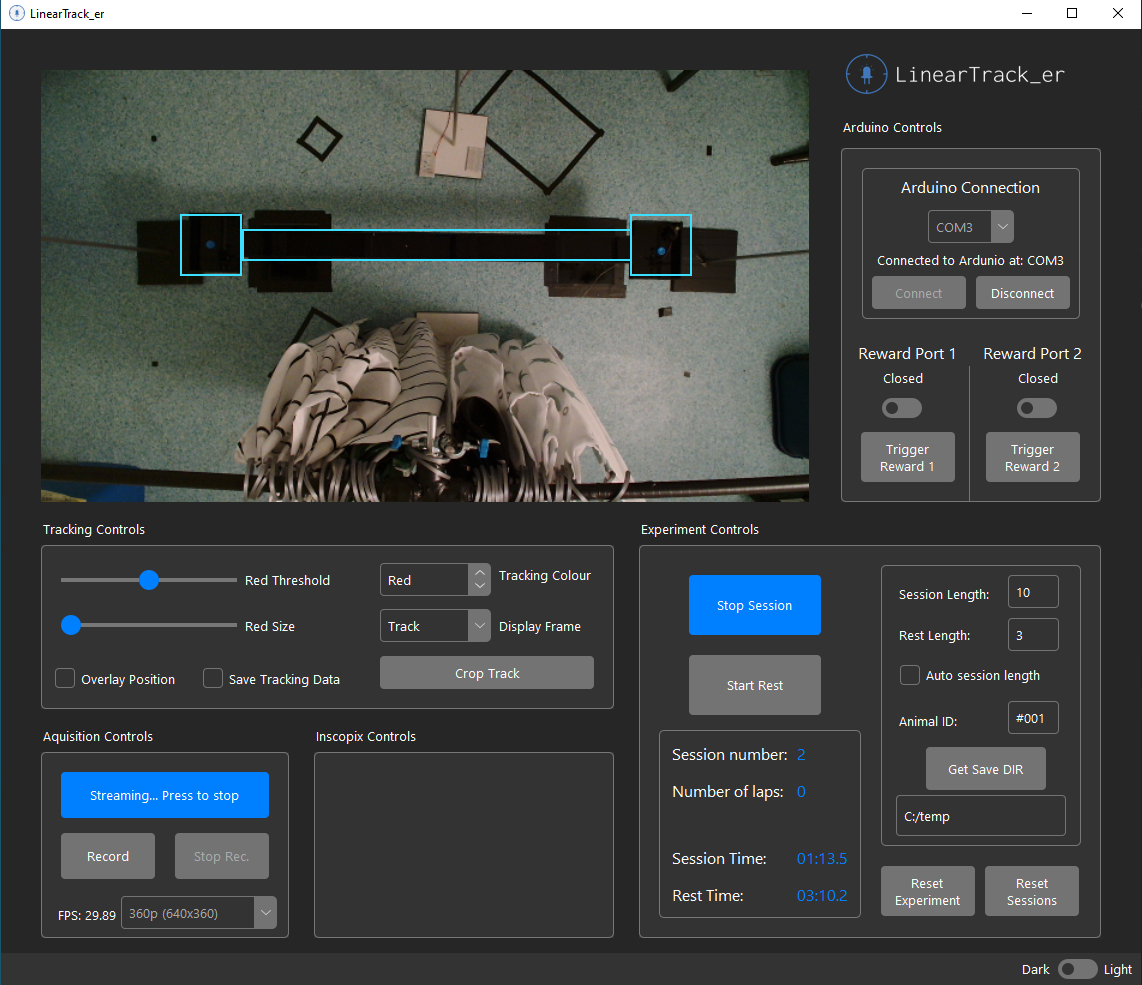
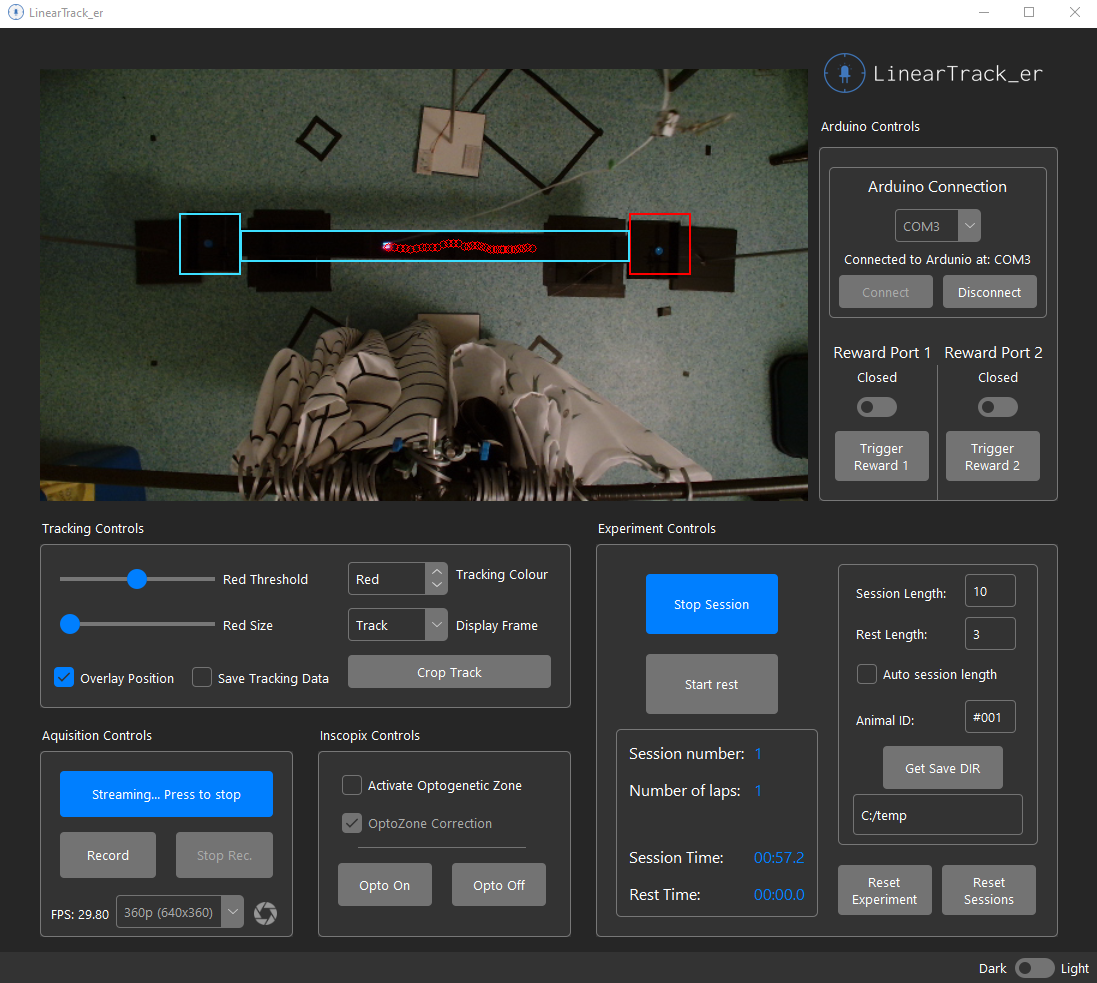
updated the app to add new features - added a camera settings button - added buttons for optogenetic activation - changed the themes to allow a new settings button - updated some logic for the resetting of active rewardzones

diff --git a/utils/tk_gui_class.py b/utils/tk_gui_class.py
@@ -160,12 +160,7 @@ class tk_gui():
         self.dark_label.pack(side='right',padx=2, pady=2)
         self.root.iconbitmap("tktheme/theme/logos/tracker_icon.ico")
 
-        #custom button that is a shutter for cam settings
-        self.cam_settings_button = ttk.Button(
-            self.theme_frame,
-            style='Logo.TButton'
-            )
-        self.cam_settings_button.pack(side='left',padx=(5,5), pady=2)   
+
 
         
         
@@ -497,28 +492,33 @@ class aquisition_pannel():
             sticky='nsew'
             )
 
+         
+
         # Frame to hold video resolution and FPS
         self.vid_res_frame = ttk.Frame(self.aquisition_frame)
         self.vid_res_frame.grid(
             row=2, 
             column=0, 
             columnspan=2,
-            pady=(0,2)
+            pady=(0,2),
+            padx=(2,2)
             )
+        #self.vid_res_frame.columnconfigure((0,1), weight=1) 
         
         # Video resolution selector spinbox
         self.video_res = tk.StringVar()
         self.vid_res_cb = ttk.Combobox(
             self.vid_res_frame,
             textvariable=self.video_res,
-            height=5
+            height=4,
+            width=20
             )
         self.vid_res_cb.grid(
             row=0, 
             column=1, 
-            sticky='s', 
-            pady=(0,5), 
-            padx=0
+            sticky='nsew', 
+            pady=(0,5),
+            padx=(2,5)
             )
         self.vid_res_cb['values'] = self.avaliable_resolutions
         self.vid_res_cb['state'] = 'readonly'
@@ -537,9 +537,20 @@ class aquisition_pannel():
             column=0, 
             sticky='w', 
             pady=2, 
-            padx=2
+            padx=2,
             )
-
+                #custom button that is a shutter for cam settings
+        self.cam_settings_button = ttk.Button(
+            self.vid_res_frame,
+            style='Logo.TButton'
+            )
+        self.cam_settings_button.grid(
+            row=0, 
+            column=2,  
+            pady=2,
+            sticky='nsew',
+            padx=(5,10)
+            )
 
 
 class inscopix_pannel():
@@ -575,6 +586,81 @@ class inscopix_pannel():
             sticky = 'nsew', 
             pady=(0,5), 
             padx=(15,10)
+            )
+        
+        # Activate Opto Zone tracking position checkbox
+        self.activate_opto = tk.IntVar(value=0)
+        self.activate_opto_check = ttk.Checkbutton(
+            self.inscopix_frame, 
+            variable=self.activate_opto, 
+            text = 'Activate Optogenetic Zone'
+            )
+        self.activate_opto_check.grid(
+            row=0, 
+            column=0,
+            columnspan=2, 
+            sticky='nsew',
+            pady=(20,5),
+            padx=(20,10),
+            )
+        
+        # Opto Zone correction mode
+        self.opto_correct = tk.IntVar(value=1)
+        self.opto_correct_check = ttk.Checkbutton(
+            self.inscopix_frame, 
+            variable=self.opto_correct, 
+            text = 'OptoZone Correction',
+            state='disabled'
+            )
+        self.opto_correct_check.grid(
+            row=1, 
+            column=0,  
+            columnspan=2,
+            sticky='nsew', 
+            padx=(20,20),
+            pady=(5,10)
+            )
+        
+        self.optoseperator = ttk.Separator(self.inscopix_frame)
+        self.optoseperator.grid(
+            row=2, 
+            column=0,
+            columnspan=2,  
+            padx=(40), 
+            pady=(0),
+            sticky='nsew'
+            )
+
+        # Opto on Button 
+        self.opto_on = tk.IntVar(value=0)
+        self.opto_on_button = ttk.Checkbutton(
+            self.inscopix_frame, 
+            text="Opto On", 
+            style="Toggle.TButton", 
+            variable=self.opto_on
+            )
+        self.opto_on_button.grid(
+            row=3, 
+            column=0, 
+            padx=(20, 10), 
+            pady=(15, 10), 
+            ipady= 5,  
+            sticky='nsew'
+            )
+        
+        # Opto on Button
+        self.opto_off_button = ttk.Button(
+            self.inscopix_frame, 
+            text="Opto Off", 
+            style="Toggle.TButton"
+            )
+        self.opto_off_button.grid(
+            row=3, 
+            column=1, 
+            padx=(10, 20), 
+            pady=(15, 10),
+            ipady= 5,  
+            sticky='nsew'
             )
         
 

diff --git a/Tracker_app.py b/Tracker_app.py
@@ -185,11 +185,13 @@ class video_stream():
             occupied_zone = self.track_zones[zone_occupied]
             other_zones = [zone for i, zone in enumerate(self.track_zones) if i!=zone_occupied]
 
+            if zone_occupied != self.last_zone_occupied:
+               print(f"{occupied_zone.name} Entered")
+               self.last_zone_occupied = zone_occupied
                            
             if app.session_running:
                 if isinstance(occupied_zone,RewardZone) and occupied_zone.isactive:
                     app.trigger_reward(occupied_zone.rewardport)
-                    print("occupied rewardzone")
                     # activate the other reward zones
                     for zone in other_zones:
                         if isinstance(zone,RewardZone):
@@ -197,9 +199,7 @@ class video_stream():
                     # deactivate this zone        
                     occupied_zone.deactivate()
 
-            if zone_occupied != self.last_zone_occupied:
-               print(f"Zone {occupied_zone.name} Entered")
-               self.last_zone_occupied = zone_occupied
+
             
 
     def save_data(self):
@@ -276,7 +276,7 @@ class tracker_app():
         self.gui.arduino.solinoid_2_switch.configure(command=lambda: self.open_close_port(port=2))
 
         self.gui.theme_switch.configure(command= self.change_theme)
-        self.gui.cam_settings_button.configure(command= self.camera_settings)
+        self.gui.aquisition.cam_settings_button.configure(command= self.camera_settings)
 
 
     def Led_to_track(self):
@@ -365,7 +365,7 @@ class tracker_app():
             self.arduino_serial.write(str(port).encode())
             print("Reward " + str(port) + " delivered")
         except:
-            print(f"Reward{port} triggered but No Connected Arduino")
+            print(f"Reward {port} triggered but no connected Arduino")
 
         if self.session_running:
             self.correct_trials += 1
@@ -454,6 +454,8 @@ class tracker_app():
         """        
         vid_res_index = self.gui.aquisition.vid_res_cb.current()
         camera_resolution = self.gui.avaliable_resolutions[vid_res_index]
+        res_len = len(self.gui.avaliable_resolutions_string[vid_res_index])
+        self.gui.aquisition.vid_res_cb.configure(width = res_len+2)
         
         self.cam.video_resolution = camera_resolution
         self.frame_resize_factor = [
@@ -472,6 +474,9 @@ class tracker_app():
             self.gui.experiment.session_but_state.set(0)
             self.session_running = False
             self.session_number += 1
+            for zone in self.gui.video.zones:
+                if isinstance(zone,RewardZone):
+                    zone.activate() 
             
         else:
             self.session_start = datetime.now()
@@ -624,7 +629,7 @@ class tracker_app():
 
         
     def refresher(self):
-        self.gui.aquisition.fps_string_var.set(f'FPS: {self.cam.fps:.2f}')
+        self.gui.aquisition.fps_string_var.set(f'FPS: {self.cam.fps:05.2f}')
         
         if self.is_streaming:
             self.root.after(1000, self.refresher) # every second...    
